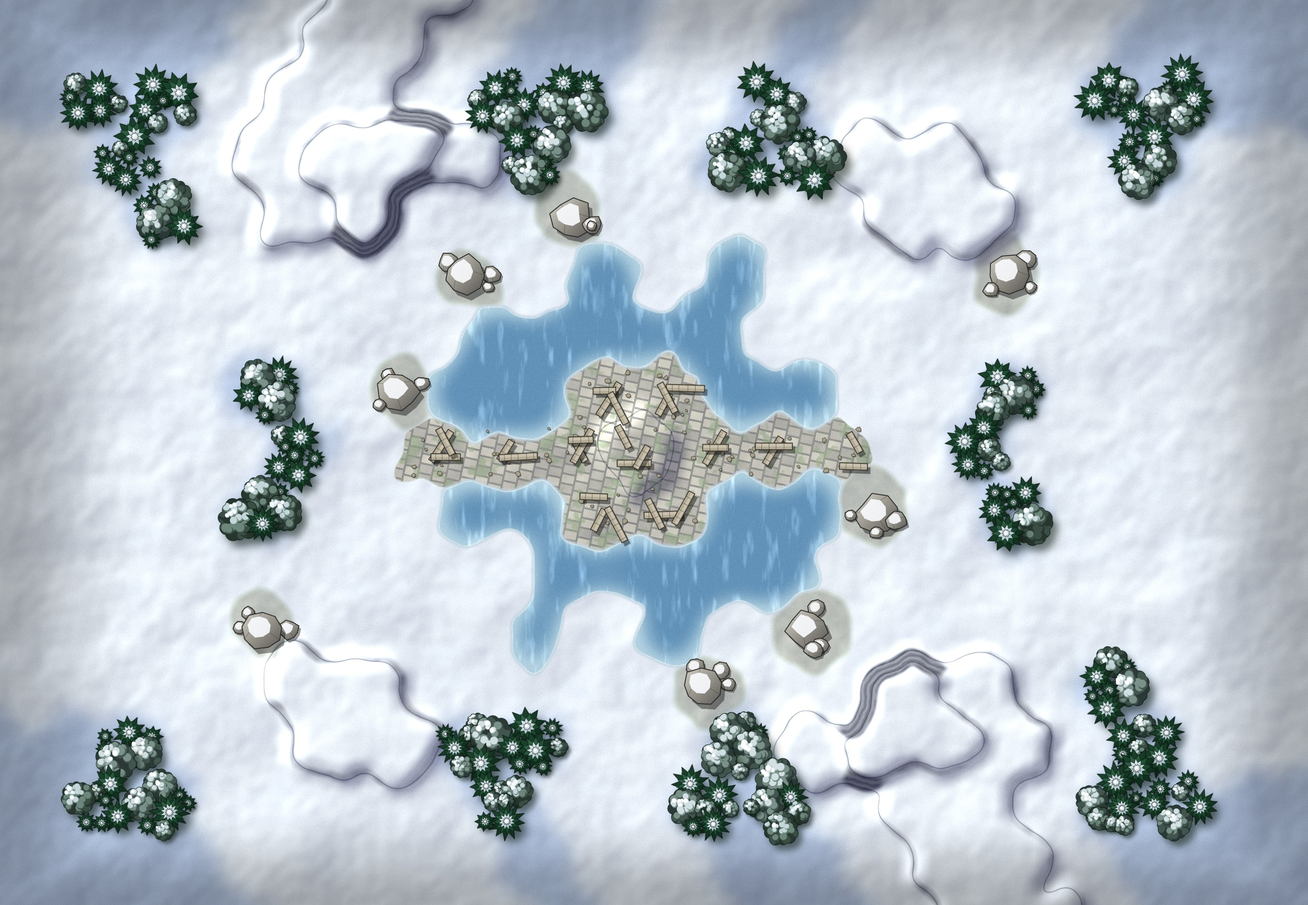
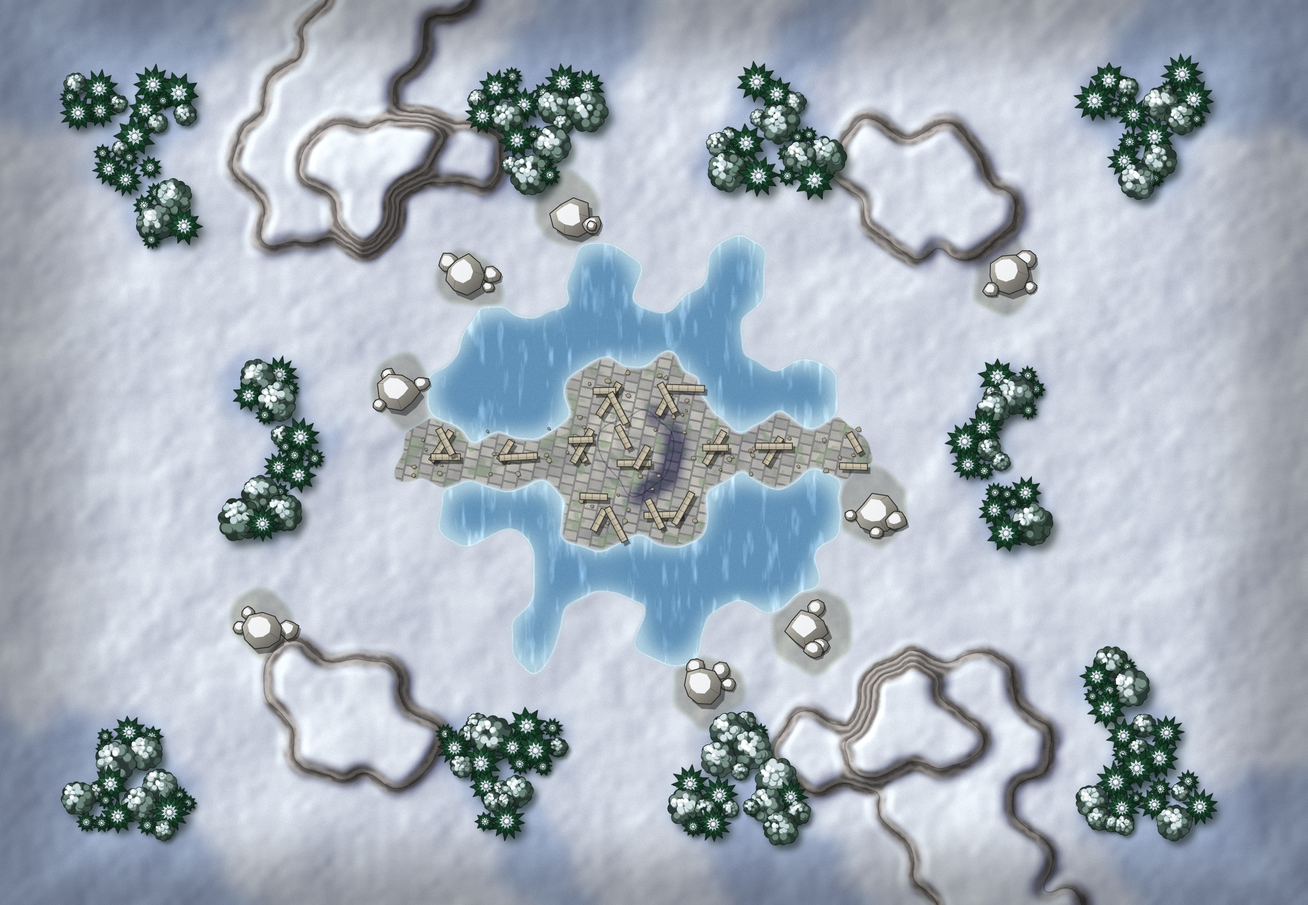
Label each terrace's height once instead of numbering every hex; repaint Frostmere and Whitefall

diff --git a/src/render.js b/src/render.js
@@ -98,6 +98,41 @@ export class Renderer {
       const p = this.pos(c.q, c.r);
       this.geo.set(key(c.q, c.r), { ...p, pts: this.corners(p) });
     }
+    this.heightLabels = this.terraces();
+  }
+
+  // Where to write the height of raised ground: not on every hex, but once per terrace (a patch of
+  // touching hexes at the same height), like a note on a map — and again every so often across a
+  // big one. Labels go on open ground, as near the middle of the patch as there is any.
+  terraces() {
+    const cells = this.map.cells, seen = new Set(), out = [];
+    const open = (c) => c.t === 'grass' || c.t === 'road' || c.t === 'ruins';
+    for (const start of this.order) {
+      const k0 = key(start.q, start.r);
+      if (start.e === 0 || seen.has(k0)) continue;
+      const patch = [], todo = [start];
+      seen.add(k0);
+      while (todo.length) {
+        const c = todo.pop();
+        patch.push(c);
+        for (const [dq, dr] of DIRS) {
+          const n = cells[key(c.q + dq, c.r + dr)];
+          if (n && n.e === start.e && !seen.has(key(n.q, n.r))) { seen.add(key(n.q, n.r)); todo.push(n); }
+        }
+      }
+      const cands = patch.some(open) ? patch.filter(open) : patch;
+      const mid = { q: patch.reduce((t, c) => t + c.q, 0) / patch.length, r: patch.reduce((t, c) => t + c.r, 0) / patch.length };
+      const far = (a, b) => (Math.abs(a.q - b.q) + Math.abs(a.r - b.r) + Math.abs(a.q + a.r - b.q - b.r)) / 2;
+      const picked = [cands.reduce((best, c) => (far(c, mid) < far(best, mid) ? c : best))];
+      for (let n = Math.round(patch.length / 30); picked.length < n;) {         // more for a big terrace, spread out
+        let best = null, bestD = 5;
+        for (const c of cands) { const d = Math.min(...picked.map((p) => far(c, p))); if (d > bestD) { bestD = d; best = c; } }
+        if (!best) break;
+        picked.push(best);
+      }
+      for (const c of picked) out.push({ q: c.q, r: c.r, e: start.e });
+    }
+    return out;
   }
 
   corners(p) {
@@ -695,8 +730,8 @@ export class Renderer {
     ctx.restore();
   }
 
-  // Top-down only: mark the high side of every height change (thin = slope, thick = cliff)
-  // and print the height of raised hexes.
+  // Mark the high side of every height change (thin = slope, thick = cliff) and note the height of
+  // raised ground: once per terrace ("+10 ft" per level), or on every hex while editing.
   contours() {
     const ctx = this.ctx, S = this.S;
     ctx.lineCap = 'round';
@@ -715,8 +750,18 @@ export class Renderer {
         ctx.lineWidth = cliff ? Math.max(4, S * 0.16) : 2.5;
         ctx.stroke();
       }
-      ctx.fillStyle = 'rgba(0,0,0,0.65)';
-      ctx.fillText(c.e, g.x, g.y + S * 0.82);
+      if (this.pad) { ctx.fillStyle = 'rgba(0,0,0,0.65)'; ctx.fillText(c.e, g.x, g.y + S * 0.82); }      // editing: every hex shows its level
+    }
+    if (!this.pad) {
+      ctx.font = `italic bold ${Math.max(11, Math.round(S * 0.4))}px Georgia, 'Times New Roman', serif`;
+      ctx.lineJoin = 'round';
+      for (const l of this.heightLabels || []) {
+        const g = this.geo.get(key(l.q, l.r));
+        if (!g) continue;
+        const text = `+${l.e * 10} ft`, y = g.y + S * 0.8;
+        ctx.lineWidth = 4; ctx.strokeStyle = 'rgba(255,252,240,0.8)'; ctx.strokeText(text, g.x, y);
+        ctx.fillStyle = 'rgba(32,22,12,0.95)'; ctx.fillText(text, g.x, y);
+      }
     }
     ctx.lineCap = 'butt';
   }

diff --git a/src/main.js b/src/main.js
@@ -295,7 +295,7 @@ function infoText(me) {
   const t = E.TERRAIN[c.t];
   const point = (view.objectives || []).find((o) => o.q === hover.q && o.r === hover.r);
   const tname = t.narrow && !state.map.ceiling ? 'Standing stones' : t.name;     // above ground they are menhirs
-  const lines = [`${tname} · height ${c.e} · ` +
+  const lines = [`${tname} · height ${c.e}${c.e ? ` (+${c.e * 10} ft)` : ''} · ` +
     (t.cost === Infinity ? (c.t === 'lava' ? 'impassable on foot; flyers cross; does not block sight' : 'impassable, blocks sight') : `move cost ${t.cost} · cover ${t.cover}`) + (t.narrow ? ' · too tight for big creatures' : '') + (t.tall && t.cost !== Infinity ? ' · blocks sight through it' : '')];
   if (point) {
     lines.push(`Control point — ${point.owner === null ? 'unclaimed' : 'held by ' + TEAM[point.owner]}`

diff --git a/README.md b/README.md
@@ -6,7 +6,8 @@ No dependencies beyond Node.
     node server.js                              # play at http://localhost:5173
     node arena.js sampler greedy --games 20     # headless AI-vs-AI
 
-The view is top-down (height shown as a number, shading and contour/cliff edges). Hover an enemy to see where it can strike next turn; with an
+The view is top-down. Raised ground is shown by shading, optional contour/cliff edges, and a note on each terrace
+("+10 ft" per level of height); while editing, every hex shows its level as a number. Hover an enemy to see where it can strike next turn; with an
 archer selected, hovering an enemy draws the sight line and marks what blocks it.
 
 **Display** — "Grid lines" fades the hex grid; "Height edges" switches off the dark slope and cliff lines of the
